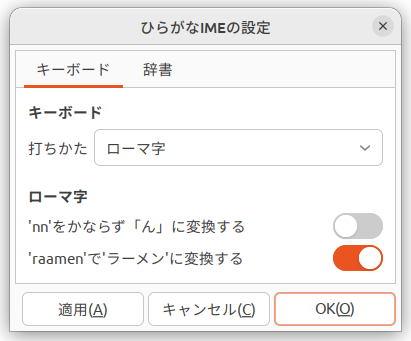
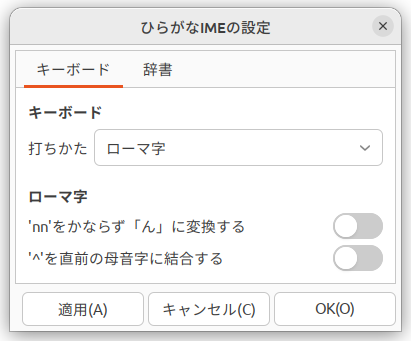
Update documents
docs/ibus-setup-hiragana_1.png
docs/ibus-setup-hiragana_2.png
docs/roomazi.html
docs/roomazi.md
docs/settings.html
docs/settings.md

diff --git a/docs/roomazi.html b/docs/roomazi.html
@@ -46,7 +46,7 @@ aside a:hover {
 <h1>ローマ<ruby>字<rp>(</rp><rt>じ</rt><rp>)</rp></ruby><ruby>入力<rp>(</rp><rt>にゅうりょく</rt><rp>)</rp></ruby></h1>
 <p>※ ローマ<ruby>字<rp>(</rp><rt>じ</rt><rp>)</rp></ruby><ruby>入力<rp>(</rp><rt>にゅうりょく</rt><rp>)</rp></ruby>を<ruby>使用<rp>(</rp><rt>しよう</rt><rp>)</rp></ruby>するように<ruby>設定<rp>(</rp><rt>せってい</rt><rp>)</rp></ruby>する<ruby>方法<rp>(</rp><rt>ほうほう</rt><rp>)</rp></ruby>については、「<a href="settings.html#layout"><ruby>設定<rp>(</rp><rt>せってい</rt><rp>)</rp></ruby>のかえかた ― [キーボード] タブ</a>」をみてください。</p>
 <h2>ローマ<ruby>字<rp>(</rp><rt>じ</rt><rp>)</rp></ruby>のつづりかた</h2>
-<p>&#x3000;ローマ<ruby>字<rp>(</rp><rt>じ</rt><rp>)</rp></ruby><ruby>入力<rp>(</rp><rt>にゅうりょく</rt><rp>)</rp></ruby>のときにつかうローマ<ruby>字<rp>(</rp><rt>じ</rt><rp>)</rp></ruby>のつづりかたは、<ruby>国語<rp>(</rp><rt>こくご</rt><rp>)</rp></ruby>や<ruby>英語<rp>(</rp><rt>えいご</rt><rp>)</rp></ruby>でならうかきかたと、すこしちがいます。ローマ<ruby>字<rp>(</rp><rt>じ</rt><rp>)</rp></ruby><ruby>入力<rp>(</rp><rt>にゅうりょく</rt><rp>)</rp></ruby>をつかうとき、<ruby>漢字<rp>(</rp><rt>かんじ</rt><rp>)</rp></ruby>やカタカナのことばは、ひらがなでつけたふりがなのほうを<ruby>入力<rp>(</rp><rt>にゅうりょく</rt><rp>)</rp></ruby>します。「を」は、<ruby>表音<rp>(</rp><rt>ひょうおん</rt><rp>)</rp></ruby><ruby>的<rp>(</rp><rt>てき</rt><rp>)</rp></ruby>な'o'ではなく、<ruby>文字<rp>(</rp><rt>もじ</rt><rp>)</rp></ruby>をしめす'wo'を<ruby>入力<rp>(</rp><rt>にゅうりょく</rt><rp>)</rp></ruby>します。この<ruby>点<rp>(</rp><rt>てん</rt><rp>)</rp></ruby>をのぞけば、ローマ<ruby>字<rp>(</rp><rt>じ</rt><rp>)</rp></ruby>のつづりかたは、<ruby>国語<rp>(</rp><rt>こくご</rt><rp>)</rp></ruby>や<ruby>英語<rp>(</rp><rt>えいご</rt><rp>)</rp></ruby>でならうつづりかたとおなじです。</p>
+<p>&#x3000;ローマ<ruby>字<rp>(</rp><rt>じ</rt><rp>)</rp></ruby><ruby>入力<rp>(</rp><rt>にゅうりょく</rt><rp>)</rp></ruby>のときにつかうローマ<ruby>字<rp>(</rp><rt>じ</rt><rp>)</rp></ruby>のつづりかたは、<ruby>国語<rp>(</rp><rt>こくご</rt><rp>)</rp></ruby>や<ruby>英語<rp>(</rp><rt>えいご</rt><rp>)</rp></ruby>でならうかきかたと、すこしちがいます。ローマ<ruby>字<rp>(</rp><rt>じ</rt><rp>)</rp></ruby><ruby>入力<rp>(</rp><rt>にゅうりょく</rt><rp>)</rp></ruby>をつかうとき、<ruby>漢字<rp>(</rp><rt>かんじ</rt><rp>)</rp></ruby>のことばは、ひらがなでつけたふりがなのほうを<ruby>入力<rp>(</rp><rt>にゅうりょく</rt><rp>)</rp></ruby>します。「を」は、<ruby>表音<rp>(</rp><rt>ひょうおん</rt><rp>)</rp></ruby><ruby>的<rp>(</rp><rt>てき</rt><rp>)</rp></ruby>な'o'ではなく、<ruby>文字<rp>(</rp><rt>もじ</rt><rp>)</rp></ruby>をしめす'wo'を<ruby>入力<rp>(</rp><rt>にゅうりょく</rt><rp>)</rp></ruby>します。この<ruby>点<rp>(</rp><rt>てん</rt><rp>)</rp></ruby>をのぞけば、ローマ<ruby>字<rp>(</rp><rt>じ</rt><rp>)</rp></ruby>のつづりかたは、<ruby>国語<rp>(</rp><rt>こくご</rt><rp>)</rp></ruby>や<ruby>英語<rp>(</rp><rt>えいご</rt><rp>)</rp></ruby>でならうつづりかたとおなじです。</p>
 <table>
 <thead>
 <tr>
@@ -64,16 +64,10 @@ aside a:hover {
 <td>Tōkyō</td>
 </tr>
 <tr>
-<td><ruby>京都<rp>(</rp><rt>きょうと</rt><rp>)</rp></ruby></td>
-<td>kyouto</td>
-<td>Kyôto</td>
-<td>Kyōtō</td>
-</tr>
-<tr>
-<td><ruby>コンピューター<rp>(</rp><rt>こんぴゅうたあ</rt><rp>)</rp></ruby></td>
-<td>konpyuutaa<br>konpyu-ta- (※)</td>
-<td>konpyûtâ</td>
-<td>computer</td>
+<td><ruby>島根<rp>(</rp><rt>しまね</rt><rp>)</rp></ruby></td>
+<td>simane</td>
+<td>Simane</td>
+<td>Shimane</td>
 </tr>
 <tr>
 <td>を</td>
@@ -83,8 +77,7 @@ aside a:hover {
 </tr>
 </tbody>
 </table>
-<p>※ <ruby>日本語<rp>(</rp><rt>にほんご</rt><rp>)</rp></ruby>をローマ<ruby>字<rp>(</rp><rt>じ</rt><rp>)</rp></ruby>でかくときに、<ruby>'-'<rp>(</rp><rt>マイナス</rt><rp>)</rp></ruby>を<ruby>長音<rp>(</rp><rt>ちょうおん</rt><rp>)</rp></ruby><ruby>符号<rp>(</rp><rt>ふごう</rt><rp>)</rp></ruby>のかわりにつかうことはありません。けれども、ローマ<ruby>字<rp>(</rp><rt>じ</rt><rp>)</rp></ruby><ruby>入力<rp>(</rp><rt>にゅうりょく</rt><rp>)</rp></ruby>では、<ruby>便宜<rp>(</rp><rt>べんぎ</rt><rp>)</rp></ruby><ruby>的<rp>(</rp><rt>てき</rt><rp>)</rp></ruby>に<ruby>〔-〕<rp>(</rp><rt>マイナス</rt><rp>)</rp></ruby>をつかって<ruby>長音<rp>(</rp><rt>ちょうおん</rt><rp>)</rp></ruby><ruby>符号<rp>(</rp><rt>ふごう</rt><rp>)</rp></ruby>(ー)を<ruby>入力<rp>(</rp><rt>にゅうりょく</rt><rp>)</rp></ruby>できるようにしています。</p>
-<p>&#x3000;ひとことでローマ<ruby>字<rp>(</rp><rt>じ</rt><rp>)</rp></ruby>といっても、じっさいには、いろいろな<ruby>方式<rp>(</rp><rt>ほうしき</rt><rp>)</rp></ruby>があります。ヘボン<ruby>式<rp>(</rp><rt>しき</rt><rp>)</rp></ruby>は<ruby>英文<rp>(</rp><rt>えいぶん</rt><rp>)</rp></ruby>のなかで<ruby>日本語<rp>(</rp><rt>にほんご</rt><rp>)</rp></ruby>の<ruby>単語<rp>(</rp><rt>たんご</rt><rp>)</rp></ruby>をかくときにつかいます。<ruby>訓令<rp>(</rp><rt>くんれい</rt><rp>)</rp></ruby><ruby>式<rp>(</rp><rt>しき</rt><rp>)</rp></ruby>は<ruby>日本語<rp>(</rp><rt>にほんご</rt><rp>)</rp></ruby>の<ruby>文章<rp>(</rp><rt>ぶんしょう</rt><rp>)</rp></ruby>をローマ<ruby>字<rp>(</rp><rt>じ</rt><rp>)</rp></ruby>でかくときにつかいます。パスポートのなまえの<ruby>表記<rp>(</rp><rt>ひょうき</rt><rp>)</rp></ruby>には、<ruby>旧<rp>(</rp><rt>きゅう</rt><rp>)</rp></ruby>ヘボン<ruby>式<rp>(</rp><rt>しき</rt><rp>)</rp></ruby>から<ruby>長音<rp>(</rp><rt>ちょうおん</rt><rp>)</rp></ruby><ruby>記号<rp>(</rp><rt>きごう</rt><rp>)</rp></ruby><ruby>（¯）<rp>(</rp><rt>マクロン</rt><rp>)</rp></ruby>を<ruby>省略<rp>(</rp><rt>しょうりゃく</rt><rp>)</rp></ruby>した<ruby>方式<rp>(</rp><rt>ほうしき</rt><rp>)</rp></ruby>がつかわれています。</p>
+<p>&#x3000;ひとことでローマ<ruby>字<rp>(</rp><rt>じ</rt><rp>)</rp></ruby>といっても、かきかたがいろいろとあります。<ruby>修正<rp>(</rp><rt>しゅうせい</rt><rp>)</rp></ruby>ヘボン<ruby>式<rp>(</rp><rt>しき</rt><rp>)</rp></ruby>は<ruby>英文<rp>(</rp><rt>えいぶん</rt><rp>)</rp></ruby>のなかで<ruby>日本語<rp>(</rp><rt>にほんご</rt><rp>)</rp></ruby>の<ruby>単語<rp>(</rp><rt>たんご</rt><rp>)</rp></ruby>をかくときにつかいます。<ruby>訓令<rp>(</rp><rt>くんれい</rt><rp>)</rp></ruby><ruby>式<rp>(</rp><rt>しき</rt><rp>)</rp></ruby>は<ruby>日本語<rp>(</rp><rt>にほんご</rt><rp>)</rp></ruby>の<ruby>文章<rp>(</rp><rt>ぶんしょう</rt><rp>)</rp></ruby>をローマ<ruby>字<rp>(</rp><rt>じ</rt><rp>)</rp></ruby>でかくときにつかいます。パスポートのなまえの<ruby>表記<rp>(</rp><rt>ひょうき</rt><rp>)</rp></ruby>には、<ruby>旧<rp>(</rp><rt>きゅう</rt><rp>)</rp></ruby>ヘボン<ruby>式<rp>(</rp><rt>しき</rt><rp>)</rp></ruby>から<ruby>長音<rp>(</rp><rt>ちょうおん</rt><rp>)</rp></ruby><ruby>記号<rp>(</rp><rt>きごう</rt><rp>)</rp></ruby><ruby>（¯）<rp>(</rp><rt>マクロン</rt><rp>)</rp></ruby>を<ruby>省略<rp>(</rp><rt>しょうりゃく</rt><rp>)</rp></ruby>した<ruby>方式<rp>(</rp><rt>ほうしき</rt><rp>)</rp></ruby>がつかわれています。</p>
 <table>
 <thead>
 <tr>
@@ -96,10 +89,6 @@ aside a:hover {
 <tr>
 <td><ruby>漢字<rp>(</rp><rt>かんじ</rt><rp>)</rp></ruby>かなまじり</td>
 <td><ruby>東京<rp>(</rp><rt>とうきょう</rt><rp>)</rp></ruby>でコンピューターを<ruby>買<rp>(</rp><rt>か</rt><rp>)</rp></ruby>いました。</td>
-</tr>
-<tr>
-<td>ローマ<ruby>字<rp>(</rp><rt>じ</rt><rp>)</rp></ruby><ruby>入力<rp>(</rp><rt>にゅうりょく</rt><rp>)</rp></ruby></td>
-<td>toukyou〔<ruby>変換<rp>(</rp><rt>へんかん</rt><rp>)</rp></ruby>〕dekonpyuutaa〔<ruby>変換<rp>(</rp><rt>へんかん</rt><rp>)</rp></ruby>〕woka〔<ruby>変換<rp>(</rp><rt>へんかん</rt><rp>)</rp></ruby>〕imasita.</td>
 </tr>
 <tr>
 <td><ruby>国語<rp>(</rp><rt>こくご</rt><rp>)</rp></ruby>（<ruby>訓令<rp>(</rp><rt>くんれい</rt><rp>)</rp></ruby><ruby>式<rp>(</rp><rt>しき</rt><rp>)</rp></ruby>）</td>
@@ -301,36 +290,36 @@ aside a:hover {
 <tr>
 <th><nobr>かな</nobr></th>
 <th>つづりかた</th>
-<th><ruby>例<rp>(</rp><rt>れい</rt><rp>)</rp></ruby></th>
 <th><nobr>ワープロ<ruby>式<rp>(</rp><rt>しき</rt><rp>)</rp></ruby></nobr></th>
+<th><nobr>うちかたの<ruby>例<rp>(</rp><rt>れい</rt><rp>)</rp></ruby></nobr></th>
 </tr>
 </thead>
 <tbody>
 <tr>
 <td>ん</td>
 <td>n<br>n' （「ん」のあとに「あいうえおやゆよ」のなかの<ruby>一<rp>(</rp><rt>いち</rt><rp>)</rp></ruby><ruby>文字<rp>(</rp><rt>もじ</rt><rp>)</rp></ruby>がつづくとき）</td>
+<td>nn (※1)</td>
 <td>かんじ<br>kanzi<br>ほんや <br>hon'ya</td>
-<td>nn</td>
 </tr>
 <tr>
 <td>っ</td>
 <td><ruby>最初<rp>(</rp><rt>さいしょ</rt><rp>)</rp></ruby>の<ruby>子音<rp>(</rp><rt>しいん</rt><rp>)</rp></ruby><ruby>字<rp>(</rp><rt>じ</rt><rp>)</rp></ruby>をかさねる</td>
-<td><nobr>がっこう</nobr><br>gakkou</td>
 <td></td>
+<td><nobr>がっこう</nobr><br>gakkou</td>
 </tr>
 <tr>
 <td>ー</td>
-<td><ruby>直前<rp>(</rp><rt>ちょくぜん</rt><rp>)</rp></ruby>の<ruby>母音<rp>(</rp><rt>ぼいん</rt><rp>)</rp></ruby><ruby>字<rp>(</rp><rt>じ</rt><rp>)</rp></ruby>をくりかえす（99<ruby>式<rp>(</rp><rt>しき</rt><rp>)</rp></ruby>）</td>
-<td>raamen<br>ラーメン</td>
-<td><ruby>-<rp>(</rp><rt> マイナス</rt><rp>)</rp></ruby></td>
+<td><ruby>母音<rp>(</rp><rt>ぼいん</rt><rp>)</rp></ruby><ruby>字<rp>(</rp><rt>じ</rt><rp>)</rp></ruby>に^をつける。</td>
+<td><ruby>母音<rp>(</rp><rt>ぼいん</rt><rp>)</rp></ruby>のあとに^か-をうつ</td>
+<td>ra^men<br><nobr>ra-men (※2)</nobr><br>ラーメン</td>
 </tr>
 </tbody>
 </table>
 <ul>
-<li>ワープロ<ruby>式<rp>(</rp><rt>しき</rt><rp>)</rp></ruby>の「nn」をつかうときは、<ruby>設定<rp>(</rp><rt>せってい</rt><rp>)</rp></ruby>の『<a href="settings.html#nn">'nn'をかならず「ん」に<ruby>変換<rp>(</rp><rt>へんかん</rt><rp>)</rp></ruby>する</a>』を<ruby>有効<rp>(</rp><rt>ゆうこう</rt><rp>)</rp></ruby>にします。</li>
-<li>99<ruby>式<rp>(</rp><rt>しき</rt><rp>)</rp></ruby>をつかうときは、<ruby>設定<rp>(</rp><rt>せってい</rt><rp>)</rp></ruby>の『<a href="settings.html#long-symbol">'raamen'で'ラーメン'に<ruby>変換<rp>(</rp><rt>へんかん</rt><rp>)</rp></ruby>する</a>』を<ruby>有効<rp>(</rp><rt>ゆうこう</rt><rp>)</rp></ruby>にします。</li>
+<li>(※1) ワープロ<ruby>式<rp>(</rp><rt>しき</rt><rp>)</rp></ruby>の「nn」をつかうときは、<ruby>設定<rp>(</rp><rt>せってい</rt><rp>)</rp></ruby>の『<a href="settings.html#nn">'nn'をかならず「ん」に<ruby>変換<rp>(</rp><rt>へんかん</rt><rp>)</rp></ruby>する</a>』を<ruby>有効<rp>(</rp><rt>ゆうこう</rt><rp>)</rp></ruby>にします。</li>
+<li>(※2) <ruby>日本語<rp>(</rp><rt>にほんご</rt><rp>)</rp></ruby>をローマ<ruby>字<rp>(</rp><rt>じ</rt><rp>)</rp></ruby>でかきあらわすとき、<ruby>'-'<rp>(</rp><rt>マイナス</rt><rp>)</rp></ruby>を<ruby>長音<rp>(</rp><rt>ちょうおん</rt><rp>)</rp></ruby><ruby>符号<rp>(</rp><rt>ふごう</rt><rp>)</rp></ruby>のかわりにつかうことはありません。けれども、ローマ<ruby>字<rp>(</rp><rt>じ</rt><rp>)</rp></ruby><ruby>入力<rp>(</rp><rt>にゅうりょく</rt><rp>)</rp></ruby>では、<ruby>便宜<rp>(</rp><rt>べんぎ</rt><rp>)</rp></ruby><ruby>的<rp>(</rp><rt>てき</rt><rp>)</rp></ruby>に<ruby>〔-〕<rp>(</rp><rt>マイナス</rt><rp>)</rp></ruby>キーをつかって<ruby>長音<rp>(</rp><rt>ちょうおん</rt><rp>)</rp></ruby><ruby>符号<rp>(</rp><rt>ふごう</rt><rp>)</rp></ruby>(ー)を<ruby>入力<rp>(</rp><rt>にゅうりょく</rt><rp>)</rp></ruby>できるようにしています。</li>
 </ul>
-<p>※ 「ひらがなIME」では、うえの<ruby>表<rp>(</rp><rt>ひょう</rt><rp>)</rp></ruby>にあるつづりかた<ruby>以外<rp>(</rp><rt>いがい</rt><rp>)</rp></ruby>にも、<ruby>英語<rp>(</rp><rt>えいご</rt><rp>)</rp></ruby>でならうつづりかたや「<a href="http://www.hokkajda-esp-ligo.jp/jp/ATruby/99siki-Roomazi.htm">99<ruby>式<rp>(</rp><rt>しき</rt><rp>)</rp></ruby>ローマ<ruby>字<rp>(</rp><rt>じ</rt><rp>)</rp></ruby></a>」をつかって<ruby>日本語<rp>(</rp><rt>にほんご</rt><rp>)</rp></ruby>を<ruby>入力<rp>(</rp><rt>にゅうりょく</rt><rp>)</rp></ruby>することもできます。</p>
+<p>&#x3000;「ひらがなIME」では、うえの<ruby>表<rp>(</rp><rt>ひょう</rt><rp>)</rp></ruby>にあるつづりかた<ruby>以外<rp>(</rp><rt>いがい</rt><rp>)</rp></ruby>にも、<ruby>英語<rp>(</rp><rt>えいご</rt><rp>)</rp></ruby>でならうつづりかたや「<a href="http://www.hokkajda-esp-ligo.jp/jp/ATruby/99siki-Roomazi.htm">99<ruby>式<rp>(</rp><rt>しき</rt><rp>)</rp></ruby>ローマ<ruby>字<rp>(</rp><rt>じ</rt><rp>)</rp></ruby></a>」をつかって<ruby>日本語<rp>(</rp><rt>にほんご</rt><rp>)</rp></ruby>を<ruby>入力<rp>(</rp><rt>にゅうりょく</rt><rp>)</rp></ruby>することもできます。</p>
 <h2>キーボードのつかいかた</h2>
 <p>※ ちいさな「ぁぃぅぇぉっゃゅょ」は、あとから<ruby>小書<rp>(</rp><rt>こが</rt><rp>)</rp></ruby>きキー<span class='key kana'>大⬄小</span>をおして<ruby>入力<rp>(</rp><rt>にゅうりょく</rt><rp>)</rp></ruby>することもできます。これは、「ひらがなIME」の<ruby>拡張<rp>(</rp><rt>かくちょう</rt><rp>)</rp></ruby><ruby>機能<rp>(</rp><rt>きのう</rt><rp>)</rp></ruby>です。ふつうは、ローマ<ruby>字<rp>(</rp><rt>じ</rt><rp>)</rp></ruby>のつづりかたにしたがって<ruby>入力<rp>(</rp><rt>にゅうりょく</rt><rp>)</rp></ruby>します。<br><br>&#x3000;たとえば: あ<span class='key kana'>大⬄小</span>→ ぁ</p>
 <h3><ruby>英語<rp>(</rp><rt>えいご</rt><rp>)</rp></ruby>キーボード<ruby>用<rp>(</rp><rt>よう</rt><rp>)</rp></ruby></h3>
@@ -372,7 +361,7 @@ aside a:hover {
 </div>
 
 <div class='layer L3'>
-<div>…</div><div></div><div></div><div></div><div></div><div></div><div></div><div></div><div></div><div></div><div></div><div>ー</div><div></div><div class='k200'></div>
+<div>…</div><div></div><div></div><div></div><div></div><div></div><div></div><div></div><div></div><div></div><div></div><div class='x'>ー</div><div></div><div class='k200'></div>
 <br>
 <div class='k150 kana'>よみ短縮</div><div></div><div></div><div></div><div></div><div></div><div></div><div></div><div></div><div></div><div></div><div>「</div><div>」</div><div class='k150'>￥</div>
 <br>
@@ -384,7 +373,7 @@ aside a:hover {
 </div>
 
 <div class='layer L4'>
-<div>〜</div><div></div><div></div><div></div><div></div><div></div><div></div><div></div><div></div><div></div><div></div><div></div><div></div><div class='k200'></div>
+<div>〜</div><div></div><div></div><div></div><div></div><div></div><div class='x'>ー</div><div></div><div></div><div></div><div></div><div></div><div></div><div class='k200'></div>
 <br>
 <div class='k150'></div><div></div><div></div><div></div><div></div><div></div><div></div><div></div><div></div><div></div><div></div><div>『</div><div>』</div><div class='k150'></div>
 <br>
@@ -439,7 +428,7 @@ aside a:hover {
 </div>
 
 <div class='layer109 L3'>
-<div class='kana'>あ/A</div><div></div><div></div><div></div><div></div><div></div><div></div><div></div><div></div><div></div><div></div><div>ー</div><div></div><div>￥</div><div></div>
+<div class='kana'>あ/A</div><div></div><div></div><div></div><div></div><div></div><div></div><div></div><div></div><div></div><div></div><div class='x'>ー</div><div class='x'>ー</div><div>￥</div><div></div>
 <br>
 <div class='k150 kana'>よみ短縮</div><div></div><div></div><div></div><div></div><div></div><div></div><div></div><div></div><div></div><div></div><div></div><div>「</div><div class='k150'></div>
 <br>

diff --git a/docs/settings.html b/docs/settings.html
@@ -100,11 +100,27 @@ aside a:hover {
 <h3 id="nn">'nn'をかならず「ん」に<ruby>変換<rp>(</rp><rt>へんかん</rt><rp>)</rp></ruby>する</h3>
 <p>&#x3000;「ん」をいつも「nn」で<ruby>入力<rp>(</rp><rt>にゅうりょく</rt><rp>)</rp></ruby>したいときは、『'nn'をかならず「ん」に<ruby>変換<rp>(</rp><rt>へんかん</rt><rp>)</rp></ruby>する』をオンにします。</p>
 <p>&#x3000;ワープロでは、「nn」と<ruby>入力<rp>(</rp><rt>にゅうりょく</rt><rp>)</rp></ruby>すると「ん」になる<ruby>便法<rp>(</rp><rt>べんぽう</rt><rp>)</rp></ruby>がつかわれてきました。ふたつめの「n」は、<ruby>日本語<rp>(</rp><rt>にほんご</rt><rp>)</rp></ruby>キーボードではおしにくい❲'❳のかわりです。これは、ローマ<ruby>字<rp>(</rp><rt>じ</rt><rp>)</rp></ruby>のつづりかたとしては、ただくしありません。<ruby>現在<rp>(</rp><rt>げんざい</rt><rp>)</rp></ruby>は、このワープロの<ruby>方式<rp>(</rp><rt>ほうしき</rt><rp>)</rp></ruby>をさだめたJIS<ruby>規格<rp>(</rp><rt>きかく</rt><rp>)</rp></ruby>は<ruby>廃止<rp>(</rp><rt>はいし</rt><rp>)</rp></ruby>されています。</p>
-<p><br><ruby>参考<rp>(</rp><rt>さんこう</rt><rp>)</rp></ruby>: 『<a href="https://srad.jp/~yasuoka/journal/518878/">JIS X 4063の<ruby>廃止<rp>(</rp><rt>はいし</rt><rp>)</rp></ruby></a>』。</p>
-<h3 id="long-symbol">'raamen'で'ラーメン'に<ruby>変換<rp>(</rp><rt>へんかん</rt><rp>)</rp></ruby>する</h3>
-<p>&#x3000;ローマ<ruby>字<rp>(</rp><rt>じ</rt><rp>)</rp></ruby><ruby>入力<rp>(</rp><rt>にゅうりょく</rt><rp>)</rp></ruby>では、<ruby>❲-❳<rp>(</rp><rt>マイナス</rt><rp>)</rp></ruby>をつかって<ruby>長音<rp>(</rp><rt>ちょうおん</rt><rp>)</rp></ruby><ruby>符号<rp>(</rp><rt>ふごう</rt><rp>)</rp></ruby>(ー)を<ruby>入力<rp>(</rp><rt>にゅうりょく</rt><rp>)</rp></ruby>する<ruby>便法<rp>(</rp><rt>べんぽう</rt><rp>)</rp></ruby>が<ruby>使<rp>(</rp><rt>つか</rt><rp>)</rp></ruby>われてきました。これは、<ruby>日本語<rp>(</rp><rt>にほんご</rt><rp>)</rp></ruby>キーボードでは「âîûêô」のように<ruby>入力<rp>(</rp><rt>にゅうりょく</rt><rp>)</rp></ruby>するのがむずかしいためです。</p>
-<p>&#x3000;『'raamen'で'ラーメン'に<ruby>変換<rp>(</rp><rt>へんかん</rt><rp>)</rp></ruby>する』をオンにすると、<ruby>直前<rp>(</rp><rt>ちょくぜん</rt><rp>)</rp></ruby>の<ruby>母音<rp>(</rp><rt>ぼいん</rt><rp>)</rp></ruby><ruby>字<rp>(</rp><rt>じ</rt><rp>)</rp></ruby>をくりかえしたときも<ruby>長音<rp>(</rp><rt>ちょうおん</rt><rp>)</rp></ruby><ruby>符号<rp>(</rp><rt>ふごう</rt><rp>)</rp></ruby>とみなして<ruby>処理<rp>(</rp><rt>しょり</rt><rp>)</rp></ruby>します。たとえば、「raamen (らあめん)」と<ruby>入力<rp>(</rp><rt>にゅうりょく</rt><rp>)</rp></ruby>して<ruby>変換<rp>(</rp><rt>へんかん</rt><rp>)</rp></ruby>したときも「ラーメン」という<ruby>候補<rp>(</rp><rt>こうほ</rt><rp>)</rp></ruby>がでてくるようになります。</p>
-<p><br><ruby>注意<rp>(</rp><rt>ちゅうい</rt><rp>)</rp></ruby>: 「ラーメン」を「ra-men」とかくのは、ローマ<ruby>字<rp>(</rp><rt>じ</rt><rp>)</rp></ruby>のつづりかたとしてはあやまりです。</p>
+<ul>
+<li><ruby>参考<rp>(</rp><rt>さんこう</rt><rp>)</rp></ruby>: 『<a href="https://srad.jp/~yasuoka/journal/518878/">JIS X 4063の<ruby>廃止<rp>(</rp><rt>はいし</rt><rp>)</rp></ruby></a>』。</li>
+</ul>
+<h3 id="combining-circumflex">'^'を'<ruby>直前<rp>(</rp><rt>ちょくぜん</rt><rp>)</rp></ruby>の<ruby>母音<rp>(</rp><rt>ぼいん</rt><rp>)</rp></ruby><ruby>字<rp>(</rp><rt>じ</rt><rp>)</rp></ruby>に<ruby>結合<rp>(</rp><rt>けつごう</rt><rp>)</rp></ruby>する</h3>
+<p>&#x3000;<ruby>日本語<rp>(</rp><rt>にほんご</rt><rp>)</rp></ruby>をローマ<ruby>字<rp>(</rp><rt>じ</rt><rp>)</rp></ruby>でかきあらわすときは、このスイッチをオンにすると<ruby>便利<rp>(</rp><rt>べんり</rt><rp>)</rp></ruby>です。</p>
+<p>&#x3000;<ruby>英数<rp>(</rp><rt>えいすう</rt><rp>)</rp></ruby>モードで<ruby>❲^❳<rp>(</rp><rt>サーカムフレックス</rt><rp>)</rp></ruby>を<ruby>入力<rp>(</rp><rt>にゅうりょく</rt><rp>)</rp></ruby>したときに、<ruby>直前<rp>(</rp><rt>ちょくぜん</rt><rp>)</rp></ruby>の<ruby>文字<rp>(</rp><rt>もじ</rt><rp>)</rp></ruby>が<ruby>母音<rp>(</rp><rt>ぼいん</rt><rp>)</rp></ruby><ruby>字<rp>(</rp><rt>じ</rt><rp>)</rp></ruby>であれば、<ruby>母音<rp>(</rp><rt>ぼいん</rt><rp>)</rp></ruby>にサーカムフレックスをつけます。</p>
+<ul>
+<li><ruby>例<rp>(</rp><rt>れい</rt><rp>)</rp></ruby>: a^ → â</li>
+</ul>
+<p>&#x3000;<ruby>直前<rp>(</rp><rt>ちょくぜん</rt><rp>)</rp></ruby>の<ruby>文字<rp>(</rp><rt>もじ</rt><rp>)</rp></ruby>がサーカムフレックスつきの<ruby>母音<rp>(</rp><rt>ぼいん</rt><rp>)</rp></ruby><ruby>字<rp>(</rp><rt>じ</rt><rp>)</rp></ruby>のときに、❲^❳を<ruby>入力<rp>(</rp><rt>にゅうりょく</rt><rp>)</rp></ruby>すると、<ruby>直前<rp>(</rp><rt>ちょくぜん</rt><rp>)</rp></ruby>の<ruby>文字<rp>(</rp><rt>もじ</rt><rp>)</rp></ruby>を<ruby>母音<rp>(</rp><rt>ぼいん</rt><rp>)</rp></ruby><ruby>字<rp>(</rp><rt>じ</rt><rp>)</rp></ruby>と<ruby>単独<rp>(</rp><rt>たんどく</rt><rp>)</rp></ruby>のサーカムフレックスにわけます。</p>
+<ul>
+<li><ruby>例<rp>(</rp><rt>れい</rt><rp>)</rp></ruby>: â^ → a^</li>
+</ul>
+<!--
+### 'raamen'で'ラーメン'に<ruby>変換<rp>(</rp><rt>へんかん</rt><rp>)</rp></ruby>する {#long-symbol}
+
+
+&#x3000;ローマ<ruby>字<rp>(</rp><rt>じ</rt><rp>)</rp></ruby><ruby>入力<rp>(</rp><rt>にゅうりょく</rt><rp>)</rp></ruby>では、<ruby>❲-❳<rp>(</rp><rt>マイナス</rt><rp>)</rp></ruby>をつかって<ruby>長音<rp>(</rp><rt>ちょうおん</rt><rp>)</rp></ruby><ruby>符号<rp>(</rp><rt>ふごう</rt><rp>)</rp></ruby>(ー)を<ruby>入力<rp>(</rp><rt>にゅうりょく</rt><rp>)</rp></ruby>する<ruby>便法<rp>(</rp><rt>べんぽう</rt><rp>)</rp></ruby>が<ruby>使<rp>(</rp><rt>つか</rt><rp>)</rp></ruby>われてきました。これは、<ruby>日本語<rp>(</rp><rt>にほんご</rt><rp>)</rp></ruby>キーボードでは「âîûêô」のように<ruby>入力<rp>(</rp><rt>にゅうりょく</rt><rp>)</rp></ruby>するのがむずかしいためです。
+&#x3000;『'raamen'で'ラーメン'に<ruby>変換<rp>(</rp><rt>へんかん</rt><rp>)</rp></ruby>する』をオンにすると、<ruby>直前<rp>(</rp><rt>ちょくぜん</rt><rp>)</rp></ruby>の<ruby>母音<rp>(</rp><rt>ぼいん</rt><rp>)</rp></ruby><ruby>字<rp>(</rp><rt>じ</rt><rp>)</rp></ruby>をくりかえしたときも<ruby>長音<rp>(</rp><rt>ちょうおん</rt><rp>)</rp></ruby><ruby>符号<rp>(</rp><rt>ふごう</rt><rp>)</rp></ruby>とみなして<ruby>処理<rp>(</rp><rt>しょり</rt><rp>)</rp></ruby>します。たとえば、「raamen (らあめん)」と<ruby>入力<rp>(</rp><rt>にゅうりょく</rt><rp>)</rp></ruby>して<ruby>変換<rp>(</rp><rt>へんかん</rt><rp>)</rp></ruby>したときも「ラーメン」という<ruby>候補<rp>(</rp><rt>こうほ</rt><rp>)</rp></ruby>がでてくるようになります。
+<br><ruby>注意<rp>(</rp><rt>ちゅうい</rt><rp>)</rp></ruby>: 「ラーメン」を「ra-men」とかくのは、ローマ<ruby>字<rp>(</rp><rt>じ</rt><rp>)</rp></ruby>のつづりかたとしてはあやまりです。-->
+
 <h2 id="dictionary">[<ruby>辞書<rp>(</rp><rt>じしょ</rt><rp>)</rp></ruby>] タブ</h2>
 <p>&#x3000;[<ruby>辞書<rp>(</rp><rt>じしょ</rt><rp>)</rp></ruby>]タブでは、<ruby>漢字<rp>(</rp><rt>かんじ</rt><rp>)</rp></ruby><ruby>変換<rp>(</rp><rt>へんかん</rt><rp>)</rp></ruby>につかう<ruby>辞書<rp>(</rp><rt>じしょ</rt><rp>)</rp></ruby>を<ruby>指定<rp>(</rp><rt>してい</rt><rp>)</rp></ruby>します。「ひらがなIME」は、おとな<ruby>用<rp>(</rp><rt>よう</rt><rp>)</rp></ruby>の<ruby>漢字<rp>(</rp><rt>かんじ</rt><rp>)</rp></ruby><ruby>辞書<rp>(</rp><rt>じしょ</rt><rp>)</rp></ruby>のほかに、<ruby>小中学生<rp>(</rp><rt>しょうちゅうがくせい</rt><rp>)</rp></ruby><ruby>用<rp>(</rp><rt>よう</rt><rp>)</rp></ruby>の<ruby>学年<rp>(</rp><rt>がくねん</rt><rp>)</rp></ruby><ruby>別<rp>(</rp><rt>べつ</rt><rp>)</rp></ruby>の<ruby>辞書<rp>(</rp><rt>じしょ</rt><rp>)</rp></ruby>を<ruby>用意<rp>(</rp><rt>ようい</rt><rp>)</rp></ruby>しています。</p>
 <p><br>

diff --git a/docs/settings.md b/docs/settings.md
@@ -43,8 +43,20 @@
 これは、ローマ字じのつづりかたとしては、ただくしありません。
 現在げんざいは、このワープロの方式ほうしきをさだめたJIS規格きかくは廃止はいしされています。
 
-<br>参考さんこう: 『[JIS X 4063の廃止はいし](https://srad.jp/~yasuoka/journal/518878/)』。
+- 参考さんこう: 『[JIS X 4063の廃止はいし](https://srad.jp/~yasuoka/journal/518878/)』。
 
+### '^'を'直前ちょくぜんの母音ぼいん字じに結合けつごうする {#combining-circumflex}
+
+　日本語にほんごをローマ字じでかきあらわすときは、このスイッチをオンにすると便利べんりです。
+　英数えいすうモードで❲^❳サーカムフレックスを入力にゅうりょくしたときに、直前ちょくぜんの文字もじが母音ぼいん字じであれば、母音ぼいんにサーカムフレックスをつけます。
+
+- 例れい: a^ → â
+
+　直前ちょくぜんの文字もじがサーカムフレックスつきの母音ぼいん字じのときに、❲^❳を入力にゅうりょくすると、直前ちょくぜんの文字もじを母音ぼいん字じと単独たんどくのサーカムフレックスにわけます。
+
+- 例れい: â^ → a^
+
+<!--
 ### 'raamen'で'ラーメン'に変換へんかんする {#long-symbol}
 
 　ローマ字じ入力にゅうりょくでは、❲-❳マイナスをつかって長音ちょうおん符号ふごう(ー)を入力にゅうりょくする便法べんぽうが使つかわれてきました。
@@ -52,6 +64,7 @@
 　『'raamen'で'ラーメン'に変換へんかんする』をオンにすると、直前ちょくぜんの母音ぼいん字じをくりかえしたときも長音ちょうおん符号ふごうとみなして処理しょりします。たとえば、「raamen (らあめん)」と入力にゅうりょくして変換へんかんしたときも「ラーメン」という候補こうほがでてくるようになります。
 
 <br>注意ちゅうい: 「ラーメン」を「ra-men」とかくのは、ローマ字じのつづりかたとしてはあやまりです。
+-->
 
 ## [辞書じしょ] タブ {#dictionary}
 
